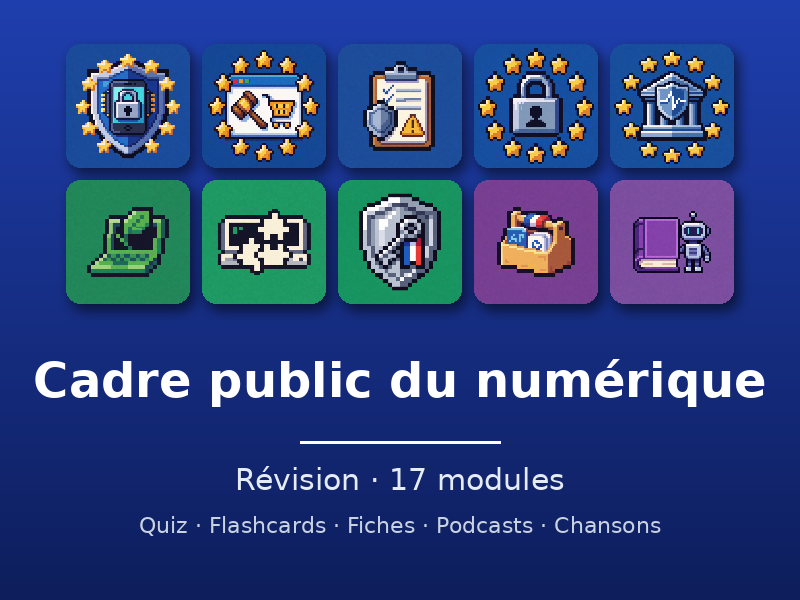
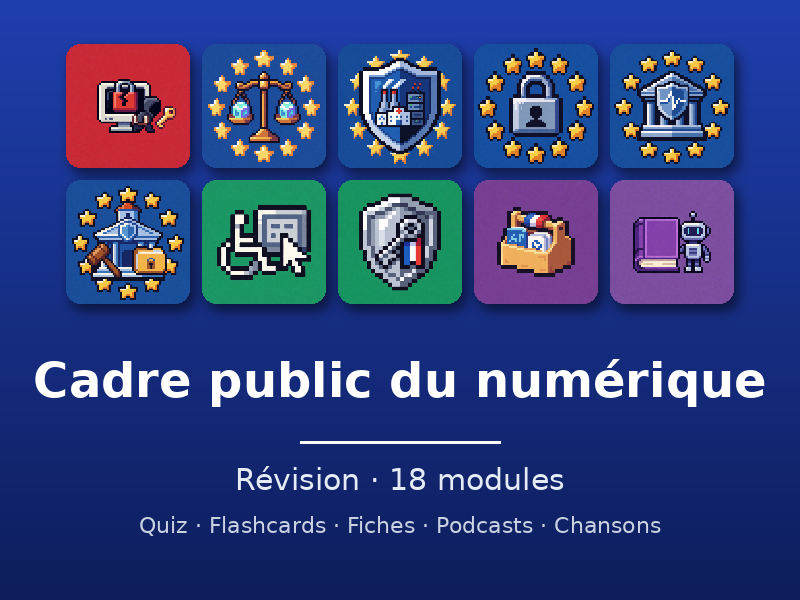
Inventaire des médias et vignette du jeu mis à jour

Changed region(s): [[0.0625, 0.06, 0.4062, 0.51], [0.4375, 0.09, 0.5625, 0.27], [0.5, 0.78, 0.5312, 0.81]]

diff --git a/INVENTAIRE.md b/INVENTAIRE.md
@@ -1,6 +1,6 @@
 # Inventaire des modules et des médias — pse-cadre-public
 
-Généré le 30/09/2026 à 00:21 par `scripts/inventaire_medias.py` (18 modules). ✅ présent, ❌ absent ; pour QCM, flashcards et TP, nombre d'éléments (0 = absent).
+Généré le 30/09/2026 à 07:20 par `scripts/inventaire_medias.py` (18 modules). ✅ présent, ❌ absent ; pour QCM, flashcards et TP, nombre d'éléments (0 = absent).
 
 ## Synthèse
 
